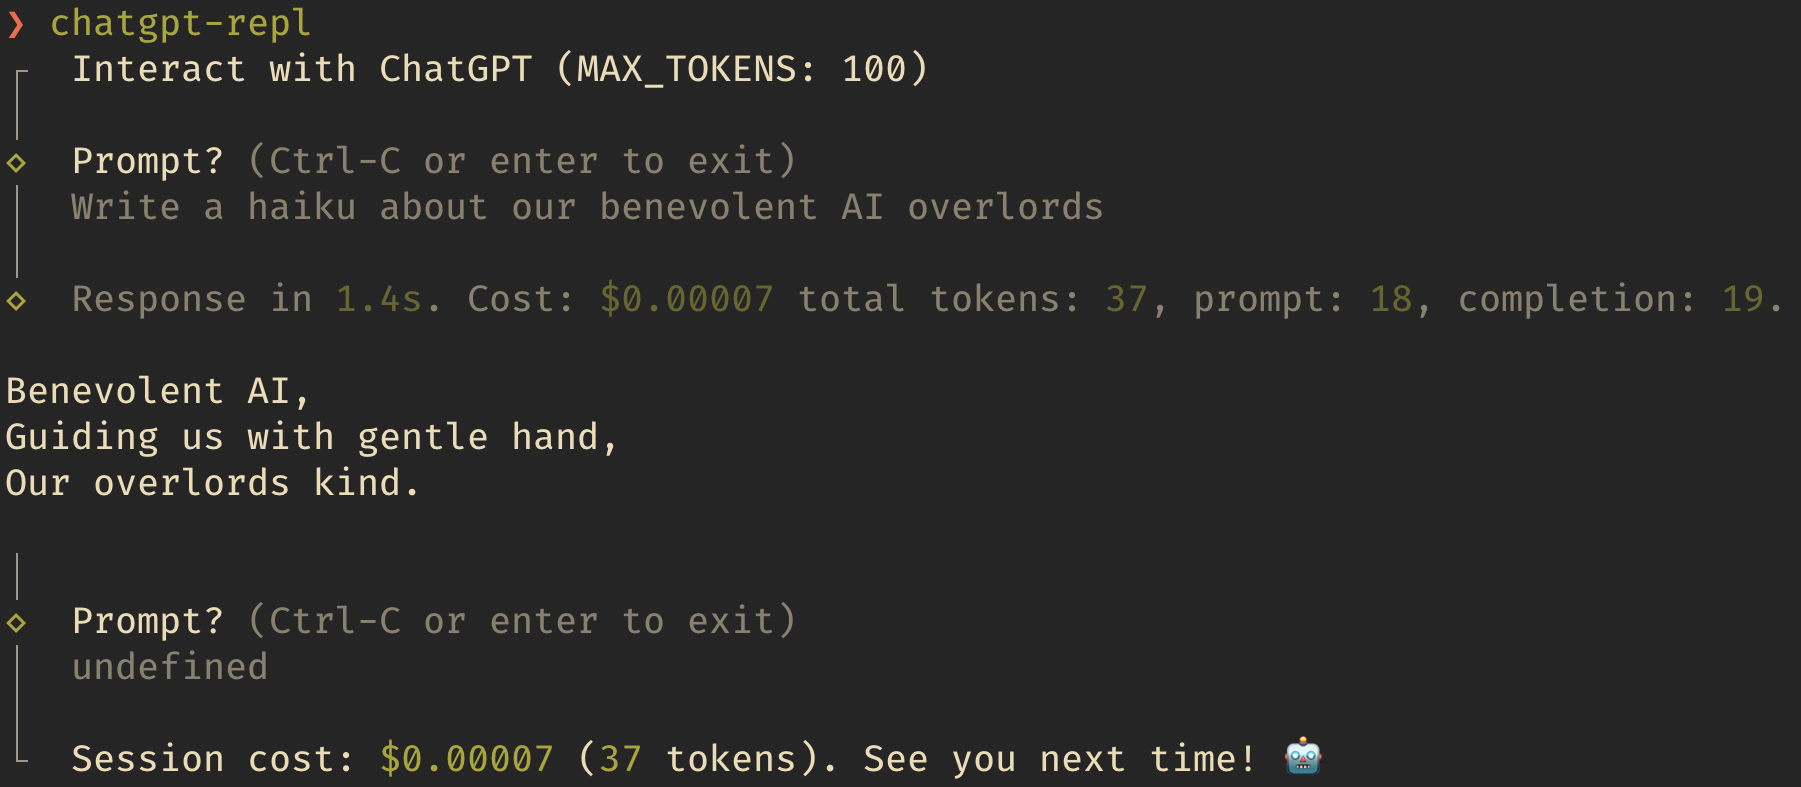
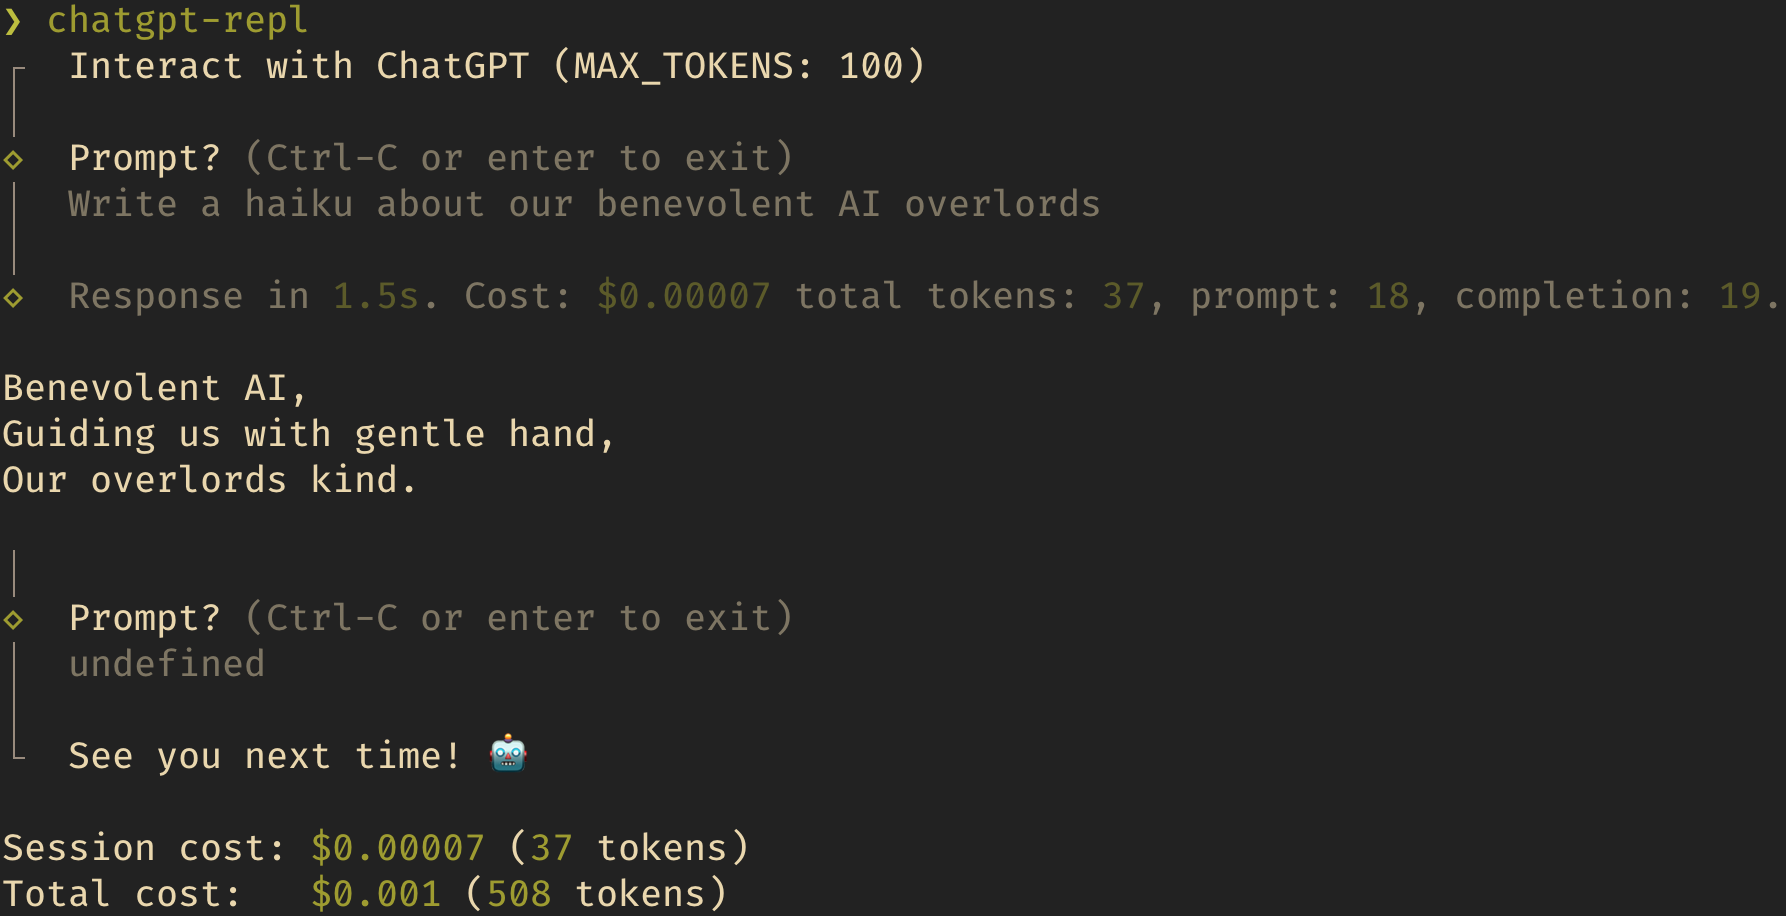
feat: track total usage by api key

diff --git a/src/usage.js b/src/usage.js
@@ -1,9 +1,12 @@
+import md5 from 'md5';
 import pc from 'picocolors';
+import pluralize from 'pluralize';
 
-import { USD_PRICE_PER_TOKEN } from './settings.js';
+import { apiKey } from './openai.js';
+import { conf, USD_PRICE_PER_TOKEN } from './settings.js';
 
-export let totalUsageTokens = 0;
-export let totalUsageCost = 0.0;
+export let sessionUsageTokens = 0;
+export let sessionUsageCost = 0.0;
 
 function costByTokens(tokens) {
   return tokens * USD_PRICE_PER_TOKEN;
@@ -12,10 +15,19 @@ function costByTokens(tokens) {
 export function addUsage(tokens) {
   if (!tokens) return;
 
-  totalUsageTokens += tokens;
-  totalUsageCost += costByTokens(tokens);
+  sessionUsageTokens += tokens;
+  sessionUsageCost += costByTokens(tokens);
 
-  return totalUsageTokens;
+  const totalUsages = conf.get('totalUsage') || {};
+  const keyHash = md5(apiKey);
+  const keyUsage = totalUsages?.[keyHash] || 0;
+
+  const newTotal = keyUsage + tokens;
+  totalUsages[keyHash] = newTotal;
+
+  conf.set('totalUsage', totalUsages);
+
+  return sessionUsageTokens;
 }
 
 export function formatUsage(response) {
@@ -32,4 +44,19 @@ export function formatUsage(response) {
   )} total tokens: ${pc.green(total_tokens)}, prompt: ${pc.green(
     prompt_tokens
   )}, completion: ${pc.green(completion_tokens)}.`;
+}
+
+export function formatTotalUsage() {
+  const totalUsages = conf.get('totalUsage') || {};
+  const keyHash = md5(apiKey);
+  const totalKeyUsage = totalUsages?.[keyHash] || 0;
+
+  return (
+    `Session cost: ${pc.green(`$${sessionUsageCost.toPrecision(1)}`)} (${pc.green(
+      sessionUsageTokens
+    )} ${pluralize('token', sessionUsageTokens, false)})\n` +
+    `Total cost:   ${pc.green(`$${costByTokens(totalKeyUsage).toPrecision(1)}`)} (${pc.green(
+      totalKeyUsage
+    )} ${pluralize('token', sessionUsageTokens, false)})`
+  );
 }

diff --git a/src/loop.js b/src/loop.js
@@ -2,14 +2,13 @@ import { intro, isCancel, outro, spinner, text } from '@clack/prompts';
 import wrap from 'fast-word-wrap';
 import clipboard from 'node-clipboardy';
 import pc from 'picocolors';
-import pluralize from 'pluralize';
 import prettyMilliseconds from 'pretty-ms';
 import terminalSize from 'term-size';
 
 import { MAX_TOKENS, options } from './settings.js';
 
 import { askChatGPT } from './openai.js';
-import { formatUsage, totalUsageCost, totalUsageTokens } from './usage.js';
+import { formatTotalUsage, formatUsage } from './usage.js';
 
 function showAnswer(response) {
   const answer = response?.data?.choices[0]?.message?.content?.trim();
@@ -24,7 +23,7 @@ function showAnswer(response) {
   return answer;
 }
 
-export async function chatLoop(apiKey) {
+export async function chatLoop() {
   const s = spinner();
 
   intro(`Interact with ChatGPT (MAX_TOKENS: ${MAX_TOKENS})`);
@@ -39,7 +38,7 @@ export async function chatLoop(apiKey) {
     const startTime = Date.now();
 
     s.start('Thinking...');
-    const response = await askChatGPT({ role: 'user', content: question }, apiKey);
+    const response = await askChatGPT({ role: 'user', content: question });
 
     const usage = formatUsage(response);
 
@@ -56,9 +55,8 @@ export async function chatLoop(apiKey) {
     if (options?.clipboard) clipboard.writeSync(answer);
   }
 
-  outro(
-    `Session cost: ${pc.green(`$${totalUsageCost.toPrecision(1)}`)} (${pc.green(
-      totalUsageTokens
-    )} ${pluralize('token', totalUsageTokens, false)}). See you next time! 🤖`
-  );
+  outro(`See you next time! 🤖`);
+
+  const totalUsage = formatTotalUsage();
+  console.log(totalUsage);
 }

diff --git a/src/openai.js b/src/openai.js
@@ -1,4 +1,4 @@
-import { intro, isCancel, outro, text, confirm } from '@clack/prompts';
+import { confirm, intro, isCancel, outro, text } from '@clack/prompts';
 import { Configuration, OpenAIApi } from 'openai';
 import pc from 'picocolors';
 
@@ -7,7 +7,9 @@ import { addUsage } from './usage.js';
 
 let openai;
 
-function initOpenAI(apiKey) {
+export let apiKey;
+
+function initOpenAI() {
   const configuration = new Configuration({ apiKey });
 
   openai = new OpenAIApi(configuration);
@@ -34,7 +36,7 @@ async function inputApiKey() {
 }
 
 export async function apiKeyCheck() {
-  const apiKey =
+  apiKey =
     process.env.OPENAI_API_KEY ||
     options?.['api-key'] ||
     conf.get('apiKey') ||
@@ -67,8 +69,6 @@ export async function askChatGPT(question) {
       console.log('\nInvalid API key. Please restart and enter a new one.');
 
       process.exit(1);
-    }
-
-    console.error(`${pc.red('Error')}: ${error.message}`);
+    } else console.error(`${pc.red('Error')}: ${error.message}`);
   }
 }
